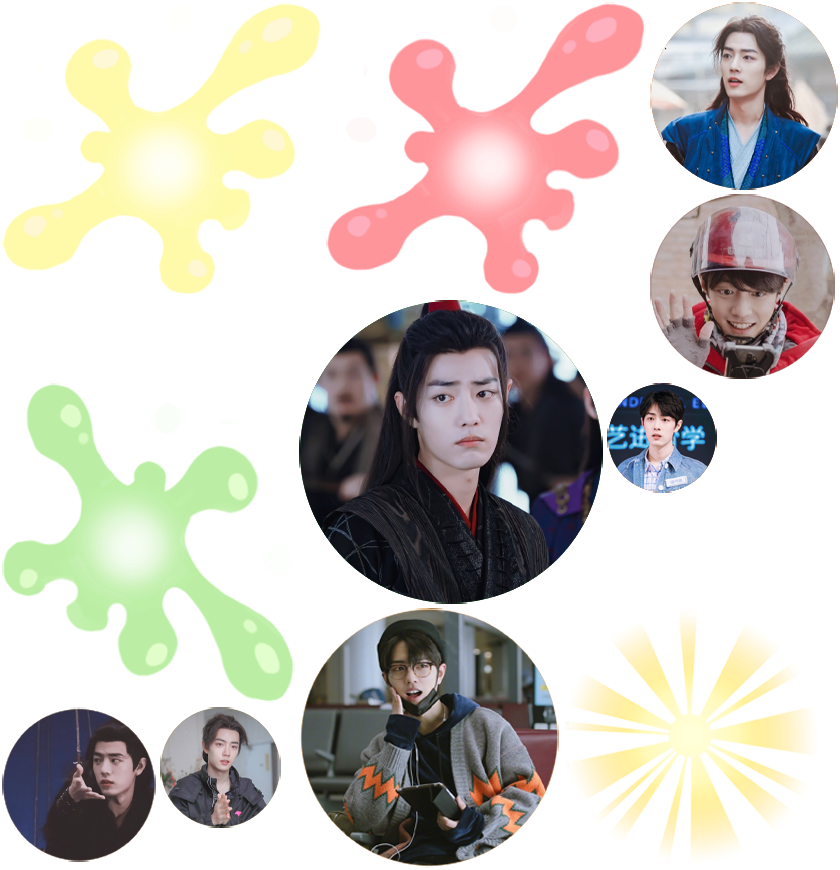
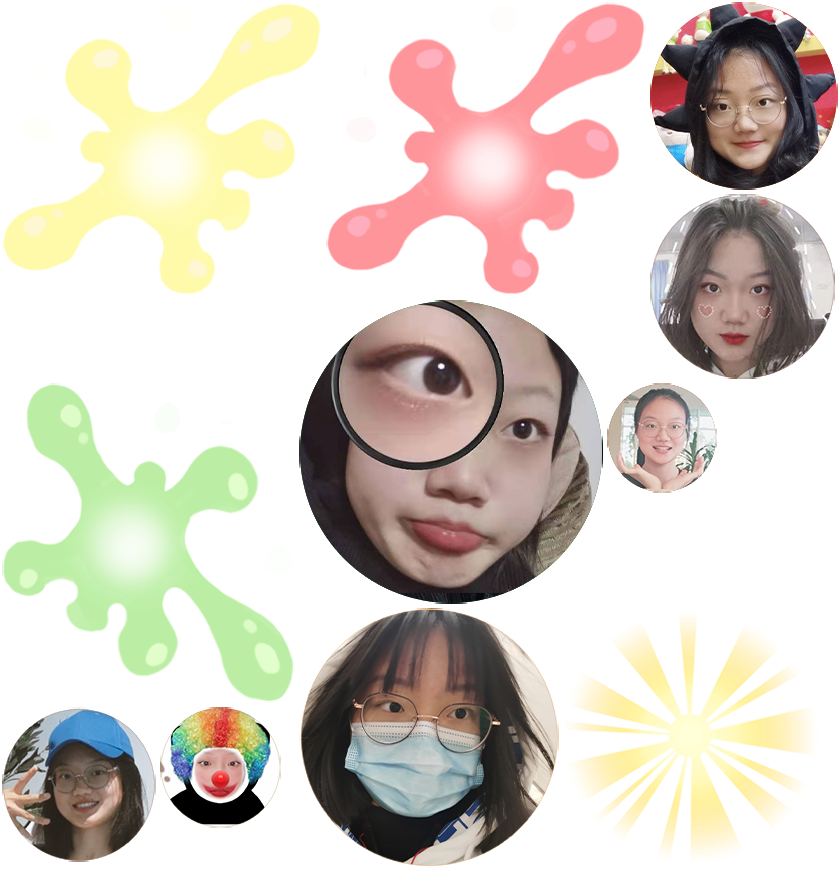
nitial commit

Changed region(s): [[0.0, 0.0, 1.0, 1.0]]

diff --git a/index.html b/index.html
@@ -4,7 +4,7 @@
 <head>
     <meta charset="utf-8">
 
-    <title>合成桃小赞</title>
+    <title>合成雪菲菲</title>
 
     <!--http://www.html5rocks.com/en/mobile/mobifying/-->
     <meta name="viewport" content="width=device-width,user-scalable=no,initial-scale=1, minimum-scale=1,maximum-scale=1" />
@@ -109,7 +109,7 @@
             //        console.log("window.navigator.language",window.navigator.language);
 
             if (window.navigator.language == "zh-CN" || window.navigator.language == "zh-cn") {
-                document.title = "合成桃小赞";
+                document.title = "合成雪菲菲";
             } 
 
 
